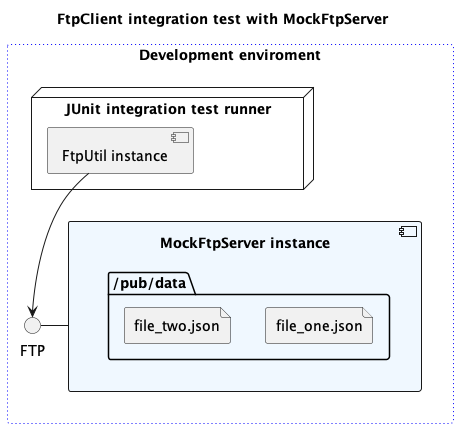
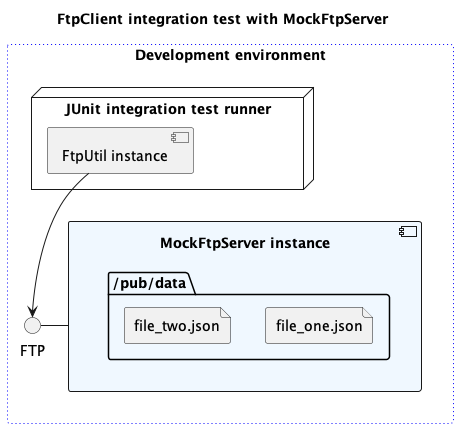
Spelling for planuml diagram

Changed region(s): [[0.2751, 0.0911, 0.7336, 0.1519]]

diff --git a/_site/search.html b/_site/search.html
@@ -1,1 +1,1 @@
-<!DOCTYPE html><html lang="en" ><head><meta charset="UTF-8"><meta name="viewport" content="width=device-width, initial-scale=1.0"><meta name="generator" content="Jekyll v4.0.0" /><meta property="og:title" content="Search" /><meta property="og:locale" content="en_US" /><meta name="description" content="A collection of articles on matters of software engineering." /><meta property="og:description" content="A collection of articles on matters of software engineering." /><link rel="canonical" href="http://localhost:4000/search" /><meta property="og:url" content="http://localhost:4000/search" /><meta property="og:site_name" content="blog" /><meta property="og:type" content="article" /><meta property="article:published_time" content="2022-08-02T13:03:53+01:00" /><meta name="twitter:card" content="summary" /><meta property="twitter:title" content="Search" /><meta name="twitter:site" content="@" /> <script type="application/ld+json"> {"@type":"BlogPosting","headline":"Search","dateModified":"2022-08-02T13:03:53+01:00","datePublished":"2022-08-02T13:03:53+01:00","mainEntityOfPage":{"@type":"WebPage","@id":"http://localhost:4000/search"},"description":"A collection of articles on matters of software engineering.","url":"http://localhost:4000/search","@context":"https://schema.org"}</script><title> Search - blog</title><link rel="shortcut icon" href="/favicon.png"><link rel="alternate" type="application/atom+xml" title="blog" href="/atom.xml"><link rel="alternate" type="application/json" title="blog" href="http://localhost:4000/feed.json" /><link rel="sitemap" type="application/xml" title="sitemap" href="/sitemap.xml" /><style> *,:after,:before{box-sizing:border-box;background-color:inherit;color:inherit;margin:0;padding:0}body{font-family:system-ui, sans-serif;-webkit-font-smoothing:antialiased;text-rendering:optimizeLegibility;line-height:1.5;font-size:1rem;color:#16171a}nav ul{border-right:1px solid #edf2f7}a{color:#000;text-decoration-skip-ink:auto;text-decoration:underline}pre{margin:.5rem 0;padding:.5rem}.post pre.src{background:#343131;color:lightgray;padding:1rem;border:1px solid #aeb0b5;border-radius:0.1875em;margin-top:1rem;margin-bottom:1rem}.post p{margin:0.5rem 0}.post h1,.post h2,.post h3,.post h4{margin:1rem 0;padding-top:1rem;padding-bottom:1rem}.post h2:first-child,.project h2:first-child,.photo h2:first-child{margin-top:0}.meta{margin:2rem 0}code,pre{background:#ecedee}code{padding:.1rem}pre code{border:none}pre{padding:1rem;overflow-x:auto}img{max-width:100%;padding-top:1rem;padding-bottom:1rem}hr{background:#000;height:1px;margin-top:2rem;margin-bottom:2rem;border-style:inset;border-width:1px}header{flex-basis:10rem;flex-grow:1;position:relative}header a{text-decoration:none}header li{margin-bottom:.2rem;text-align:right;margin-right:2rem}header a.active{font-weight:bold}header,section{padding:1rem}blockquote{font-style:italic;border-left:5px solid #ececec;padding-left:1rem}h1,h2,h3,h4,h5{line-height:1;margin:1rem 0;font-weight:600}section h1:first-child{margin-top:0}strong,b{font-weight:bold}.photos ul{list-style:none}.photos li{margin-bottom:1.5rem}.photo picture,.project picture{margin-bottom:0.5rem}.posts ul,header ul{list-style:none}.posts li{align-items:center;display:flex;justify-content:space-between;margin-bottom:.5rem}.posts li a,.posts li div,.projects li a{white-space:nowrap;overflow:hidden;text-overflow:ellipsis;text-decoration:none}.posts li time,.projects li time{padding-left:1rem;white-space:nowrap;font-variant-numeric:tabular-nums}.post ul,.project ul,.post ol{padding-left:2em}main{display:flex;flex-wrap:wrap;max-width:60rem;margin:2rem auto;padding:1rem}@media screen and (max-width: 45rem){header li{display:inline;margin-right:1rem}.logo{padding-bottom:1rem}header ul{border-bottom:1px solid #edf2f7;padding-bottom:2rem}nav ul{border-right:0px}.photos ul{margin-top:0.5rem}}section{flex-basis:0;flex-grow:999;min-width:70%;display:flex;flex-direction:column}figcaption{font-size:smaller}</style></head><body><main role="main"><header role="banner"> <!--<h1 class="logo">blog</h1>--><nav role="navigation"><ul><li><a href="/" >Writing</a></li><li><a href="/about" >About</a></li><li><a href="/search" class="active">Search</a></li><li><a href="/atom.xml" >Rss</a></li></ul></nav></header><section class="post"><h2 style="padding:0;">Search</h2><style> #search-container { max-width: 100%; } input[type=text] { font-size: normal; outline: none; padding: 1rem; background: rgb(236, 237, 238); width: 100%; -webkit-appearance: none; font-family: inherit; font-size: 100%; border: none; } #results-container { margin: .5rem 0; }</style><div id="search-container"> <input type="text" id="search-input" placeholder="Search..." /><ol id="results-container"></ol></div><script src="/search.js" type="text/javascript"></script> <script type="text/javascript"> SimpleJekyllSearch({ searchInput: document.getElementById('search-input'), resultsContainer: document.getElementById('results-container'), json: '/search.json', searchResultTemplate: '<li><a href="{url}" title="{description}">{title}</a></li>', noResultsText: 'No results found', limit: 10, fuzzy: false, exclude: ['Welcome'] }) </script></section></main></body></html>
+<!DOCTYPE html><html lang="en" ><head><meta charset="UTF-8"><meta name="viewport" content="width=device-width, initial-scale=1.0"><meta name="generator" content="Jekyll v4.0.0" /><meta property="og:title" content="Search" /><meta property="og:locale" content="en_US" /><meta name="description" content="A collection of articles on matters of software engineering." /><meta property="og:description" content="A collection of articles on matters of software engineering." /><link rel="canonical" href="http://localhost:4000/search" /><meta property="og:url" content="http://localhost:4000/search" /><meta property="og:site_name" content="blog" /><meta property="og:type" content="article" /><meta property="article:published_time" content="2022-08-02T13:06:22+01:00" /><meta name="twitter:card" content="summary" /><meta property="twitter:title" content="Search" /><meta name="twitter:site" content="@" /> <script type="application/ld+json"> {"@type":"BlogPosting","headline":"Search","dateModified":"2022-08-02T13:06:22+01:00","datePublished":"2022-08-02T13:06:22+01:00","mainEntityOfPage":{"@type":"WebPage","@id":"http://localhost:4000/search"},"description":"A collection of articles on matters of software engineering.","url":"http://localhost:4000/search","@context":"https://schema.org"}</script><title> Search - blog</title><link rel="shortcut icon" href="/favicon.png"><link rel="alternate" type="application/atom+xml" title="blog" href="/atom.xml"><link rel="alternate" type="application/json" title="blog" href="http://localhost:4000/feed.json" /><link rel="sitemap" type="application/xml" title="sitemap" href="/sitemap.xml" /><style> *,:after,:before{box-sizing:border-box;background-color:inherit;color:inherit;margin:0;padding:0}body{font-family:system-ui, sans-serif;-webkit-font-smoothing:antialiased;text-rendering:optimizeLegibility;line-height:1.5;font-size:1rem;color:#16171a}nav ul{border-right:1px solid #edf2f7}a{color:#000;text-decoration-skip-ink:auto;text-decoration:underline}pre{margin:.5rem 0;padding:.5rem}.post pre.src{background:#343131;color:lightgray;padding:1rem;border:1px solid #aeb0b5;border-radius:0.1875em;margin-top:1rem;margin-bottom:1rem}.post p{margin:0.5rem 0}.post h1,.post h2,.post h3,.post h4{margin:1rem 0;padding-top:1rem;padding-bottom:1rem}.post h2:first-child,.project h2:first-child,.photo h2:first-child{margin-top:0}.meta{margin:2rem 0}code,pre{background:#ecedee}code{padding:.1rem}pre code{border:none}pre{padding:1rem;overflow-x:auto}img{max-width:100%;padding-top:1rem;padding-bottom:1rem}hr{background:#000;height:1px;margin-top:2rem;margin-bottom:2rem;border-style:inset;border-width:1px}header{flex-basis:10rem;flex-grow:1;position:relative}header a{text-decoration:none}header li{margin-bottom:.2rem;text-align:right;margin-right:2rem}header a.active{font-weight:bold}header,section{padding:1rem}blockquote{font-style:italic;border-left:5px solid #ececec;padding-left:1rem}h1,h2,h3,h4,h5{line-height:1;margin:1rem 0;font-weight:600}section h1:first-child{margin-top:0}strong,b{font-weight:bold}.photos ul{list-style:none}.photos li{margin-bottom:1.5rem}.photo picture,.project picture{margin-bottom:0.5rem}.posts ul,header ul{list-style:none}.posts li{align-items:center;display:flex;justify-content:space-between;margin-bottom:.5rem}.posts li a,.posts li div,.projects li a{white-space:nowrap;overflow:hidden;text-overflow:ellipsis;text-decoration:none}.posts li time,.projects li time{padding-left:1rem;white-space:nowrap;font-variant-numeric:tabular-nums}.post ul,.project ul,.post ol{padding-left:2em}main{display:flex;flex-wrap:wrap;max-width:60rem;margin:2rem auto;padding:1rem}@media screen and (max-width: 45rem){header li{display:inline;margin-right:1rem}.logo{padding-bottom:1rem}header ul{border-bottom:1px solid #edf2f7;padding-bottom:2rem}nav ul{border-right:0px}.photos ul{margin-top:0.5rem}}section{flex-basis:0;flex-grow:999;min-width:70%;display:flex;flex-direction:column}figcaption{font-size:smaller}</style></head><body><main role="main"><header role="banner"> <!--<h1 class="logo">blog</h1>--><nav role="navigation"><ul><li><a href="/" >Writing</a></li><li><a href="/about" >About</a></li><li><a href="/search" class="active">Search</a></li><li><a href="/atom.xml" >Rss</a></li></ul></nav></header><section class="post"><h2 style="padding:0;">Search</h2><style> #search-container { max-width: 100%; } input[type=text] { font-size: normal; outline: none; padding: 1rem; background: rgb(236, 237, 238); width: 100%; -webkit-appearance: none; font-family: inherit; font-size: 100%; border: none; } #results-container { margin: .5rem 0; }</style><div id="search-container"> <input type="text" id="search-input" placeholder="Search..." /><ol id="results-container"></ol></div><script src="/search.js" type="text/javascript"></script> <script type="text/javascript"> SimpleJekyllSearch({ searchInput: document.getElementById('search-input'), resultsContainer: document.getElementById('results-container'), json: '/search.json', searchResultTemplate: '<li><a href="{url}" title="{description}">{title}</a></li>', noResultsText: 'No results found', limit: 10, fuzzy: false, exclude: ['Welcome'] }) </script></section></main></body></html>

diff --git a/_site/about.html b/_site/about.html
@@ -1,1 +1,1 @@
-<!DOCTYPE html><html lang="en" ><head><meta charset="UTF-8"><meta name="viewport" content="width=device-width, initial-scale=1.0"><meta name="generator" content="Jekyll v4.0.0" /><meta property="og:title" content="About" /><meta property="og:locale" content="en_US" /><meta name="description" content="This is a collection of notes on matters of software engineering." /><meta property="og:description" content="This is a collection of notes on matters of software engineering." /><link rel="canonical" href="http://localhost:4000/about" /><meta property="og:url" content="http://localhost:4000/about" /><meta property="og:site_name" content="blog" /><meta property="og:type" content="article" /><meta property="article:published_time" content="2022-08-02T13:03:53+01:00" /><meta name="twitter:card" content="summary" /><meta property="twitter:title" content="About" /><meta name="twitter:site" content="@" /> <script type="application/ld+json"> {"@type":"BlogPosting","headline":"About","dateModified":"2022-08-02T13:03:53+01:00","datePublished":"2022-08-02T13:03:53+01:00","mainEntityOfPage":{"@type":"WebPage","@id":"http://localhost:4000/about"},"description":"This is a collection of notes on matters of software engineering.","url":"http://localhost:4000/about","@context":"https://schema.org"}</script><title> About - blog</title><link rel="shortcut icon" href="/favicon.png"><link rel="alternate" type="application/atom+xml" title="blog" href="/atom.xml"><link rel="alternate" type="application/json" title="blog" href="http://localhost:4000/feed.json" /><link rel="sitemap" type="application/xml" title="sitemap" href="/sitemap.xml" /><style> *,:after,:before{box-sizing:border-box;background-color:inherit;color:inherit;margin:0;padding:0}body{font-family:system-ui, sans-serif;-webkit-font-smoothing:antialiased;text-rendering:optimizeLegibility;line-height:1.5;font-size:1rem;color:#16171a}nav ul{border-right:1px solid #edf2f7}a{color:#000;text-decoration-skip-ink:auto;text-decoration:underline}pre{margin:.5rem 0;padding:.5rem}.post pre.src{background:#343131;color:lightgray;padding:1rem;border:1px solid #aeb0b5;border-radius:0.1875em;margin-top:1rem;margin-bottom:1rem}.post p{margin:0.5rem 0}.post h1,.post h2,.post h3,.post h4{margin:1rem 0;padding-top:1rem;padding-bottom:1rem}.post h2:first-child,.project h2:first-child,.photo h2:first-child{margin-top:0}.meta{margin:2rem 0}code,pre{background:#ecedee}code{padding:.1rem}pre code{border:none}pre{padding:1rem;overflow-x:auto}img{max-width:100%;padding-top:1rem;padding-bottom:1rem}hr{background:#000;height:1px;margin-top:2rem;margin-bottom:2rem;border-style:inset;border-width:1px}header{flex-basis:10rem;flex-grow:1;position:relative}header a{text-decoration:none}header li{margin-bottom:.2rem;text-align:right;margin-right:2rem}header a.active{font-weight:bold}header,section{padding:1rem}blockquote{font-style:italic;border-left:5px solid #ececec;padding-left:1rem}h1,h2,h3,h4,h5{line-height:1;margin:1rem 0;font-weight:600}section h1:first-child{margin-top:0}strong,b{font-weight:bold}.photos ul{list-style:none}.photos li{margin-bottom:1.5rem}.photo picture,.project picture{margin-bottom:0.5rem}.posts ul,header ul{list-style:none}.posts li{align-items:center;display:flex;justify-content:space-between;margin-bottom:.5rem}.posts li a,.posts li div,.projects li a{white-space:nowrap;overflow:hidden;text-overflow:ellipsis;text-decoration:none}.posts li time,.projects li time{padding-left:1rem;white-space:nowrap;font-variant-numeric:tabular-nums}.post ul,.project ul,.post ol{padding-left:2em}main{display:flex;flex-wrap:wrap;max-width:60rem;margin:2rem auto;padding:1rem}@media screen and (max-width: 45rem){header li{display:inline;margin-right:1rem}.logo{padding-bottom:1rem}header ul{border-bottom:1px solid #edf2f7;padding-bottom:2rem}nav ul{border-right:0px}.photos ul{margin-top:0.5rem}}section{flex-basis:0;flex-grow:999;min-width:70%;display:flex;flex-direction:column}figcaption{font-size:smaller}</style></head><body><main role="main"><header role="banner"> <!--<h1 class="logo">blog</h1>--><nav role="navigation"><ul><li><a href="/" >Writing</a></li><li><a href="/about" class="active">About</a></li><li><a href="/search" >Search</a></li><li><a href="/atom.xml" >Rss</a></li></ul></nav></header><section class="post"><h2 style="padding:0;">About</h2><p>This is a collection of notes on matters of software engineering.</p><p><a href="https://www.linkedin.com/in/rustam-isangulov/">LinkedIn</a> <br /> <a href="https://github.com/rustam-isangulov">GitHub</a></p></section></main></body></html>
+<!DOCTYPE html><html lang="en" ><head><meta charset="UTF-8"><meta name="viewport" content="width=device-width, initial-scale=1.0"><meta name="generator" content="Jekyll v4.0.0" /><meta property="og:title" content="About" /><meta property="og:locale" content="en_US" /><meta name="description" content="This is a collection of notes on matters of software engineering." /><meta property="og:description" content="This is a collection of notes on matters of software engineering." /><link rel="canonical" href="http://localhost:4000/about" /><meta property="og:url" content="http://localhost:4000/about" /><meta property="og:site_name" content="blog" /><meta property="og:type" content="article" /><meta property="article:published_time" content="2022-08-02T13:06:22+01:00" /><meta name="twitter:card" content="summary" /><meta property="twitter:title" content="About" /><meta name="twitter:site" content="@" /> <script type="application/ld+json"> {"@type":"BlogPosting","headline":"About","dateModified":"2022-08-02T13:06:22+01:00","datePublished":"2022-08-02T13:06:22+01:00","mainEntityOfPage":{"@type":"WebPage","@id":"http://localhost:4000/about"},"description":"This is a collection of notes on matters of software engineering.","url":"http://localhost:4000/about","@context":"https://schema.org"}</script><title> About - blog</title><link rel="shortcut icon" href="/favicon.png"><link rel="alternate" type="application/atom+xml" title="blog" href="/atom.xml"><link rel="alternate" type="application/json" title="blog" href="http://localhost:4000/feed.json" /><link rel="sitemap" type="application/xml" title="sitemap" href="/sitemap.xml" /><style> *,:after,:before{box-sizing:border-box;background-color:inherit;color:inherit;margin:0;padding:0}body{font-family:system-ui, sans-serif;-webkit-font-smoothing:antialiased;text-rendering:optimizeLegibility;line-height:1.5;font-size:1rem;color:#16171a}nav ul{border-right:1px solid #edf2f7}a{color:#000;text-decoration-skip-ink:auto;text-decoration:underline}pre{margin:.5rem 0;padding:.5rem}.post pre.src{background:#343131;color:lightgray;padding:1rem;border:1px solid #aeb0b5;border-radius:0.1875em;margin-top:1rem;margin-bottom:1rem}.post p{margin:0.5rem 0}.post h1,.post h2,.post h3,.post h4{margin:1rem 0;padding-top:1rem;padding-bottom:1rem}.post h2:first-child,.project h2:first-child,.photo h2:first-child{margin-top:0}.meta{margin:2rem 0}code,pre{background:#ecedee}code{padding:.1rem}pre code{border:none}pre{padding:1rem;overflow-x:auto}img{max-width:100%;padding-top:1rem;padding-bottom:1rem}hr{background:#000;height:1px;margin-top:2rem;margin-bottom:2rem;border-style:inset;border-width:1px}header{flex-basis:10rem;flex-grow:1;position:relative}header a{text-decoration:none}header li{margin-bottom:.2rem;text-align:right;margin-right:2rem}header a.active{font-weight:bold}header,section{padding:1rem}blockquote{font-style:italic;border-left:5px solid #ececec;padding-left:1rem}h1,h2,h3,h4,h5{line-height:1;margin:1rem 0;font-weight:600}section h1:first-child{margin-top:0}strong,b{font-weight:bold}.photos ul{list-style:none}.photos li{margin-bottom:1.5rem}.photo picture,.project picture{margin-bottom:0.5rem}.posts ul,header ul{list-style:none}.posts li{align-items:center;display:flex;justify-content:space-between;margin-bottom:.5rem}.posts li a,.posts li div,.projects li a{white-space:nowrap;overflow:hidden;text-overflow:ellipsis;text-decoration:none}.posts li time,.projects li time{padding-left:1rem;white-space:nowrap;font-variant-numeric:tabular-nums}.post ul,.project ul,.post ol{padding-left:2em}main{display:flex;flex-wrap:wrap;max-width:60rem;margin:2rem auto;padding:1rem}@media screen and (max-width: 45rem){header li{display:inline;margin-right:1rem}.logo{padding-bottom:1rem}header ul{border-bottom:1px solid #edf2f7;padding-bottom:2rem}nav ul{border-right:0px}.photos ul{margin-top:0.5rem}}section{flex-basis:0;flex-grow:999;min-width:70%;display:flex;flex-direction:column}figcaption{font-size:smaller}</style></head><body><main role="main"><header role="banner"> <!--<h1 class="logo">blog</h1>--><nav role="navigation"><ul><li><a href="/" >Writing</a></li><li><a href="/about" class="active">About</a></li><li><a href="/search" >Search</a></li><li><a href="/atom.xml" >Rss</a></li></ul></nav></header><section class="post"><h2 style="padding:0;">About</h2><p>This is a collection of notes on matters of software engineering.</p><p><a href="https://www.linkedin.com/in/rustam-isangulov/">LinkedIn</a> <br /> <a href="https://github.com/rustam-isangulov">GitHub</a></p></section></main></body></html>
